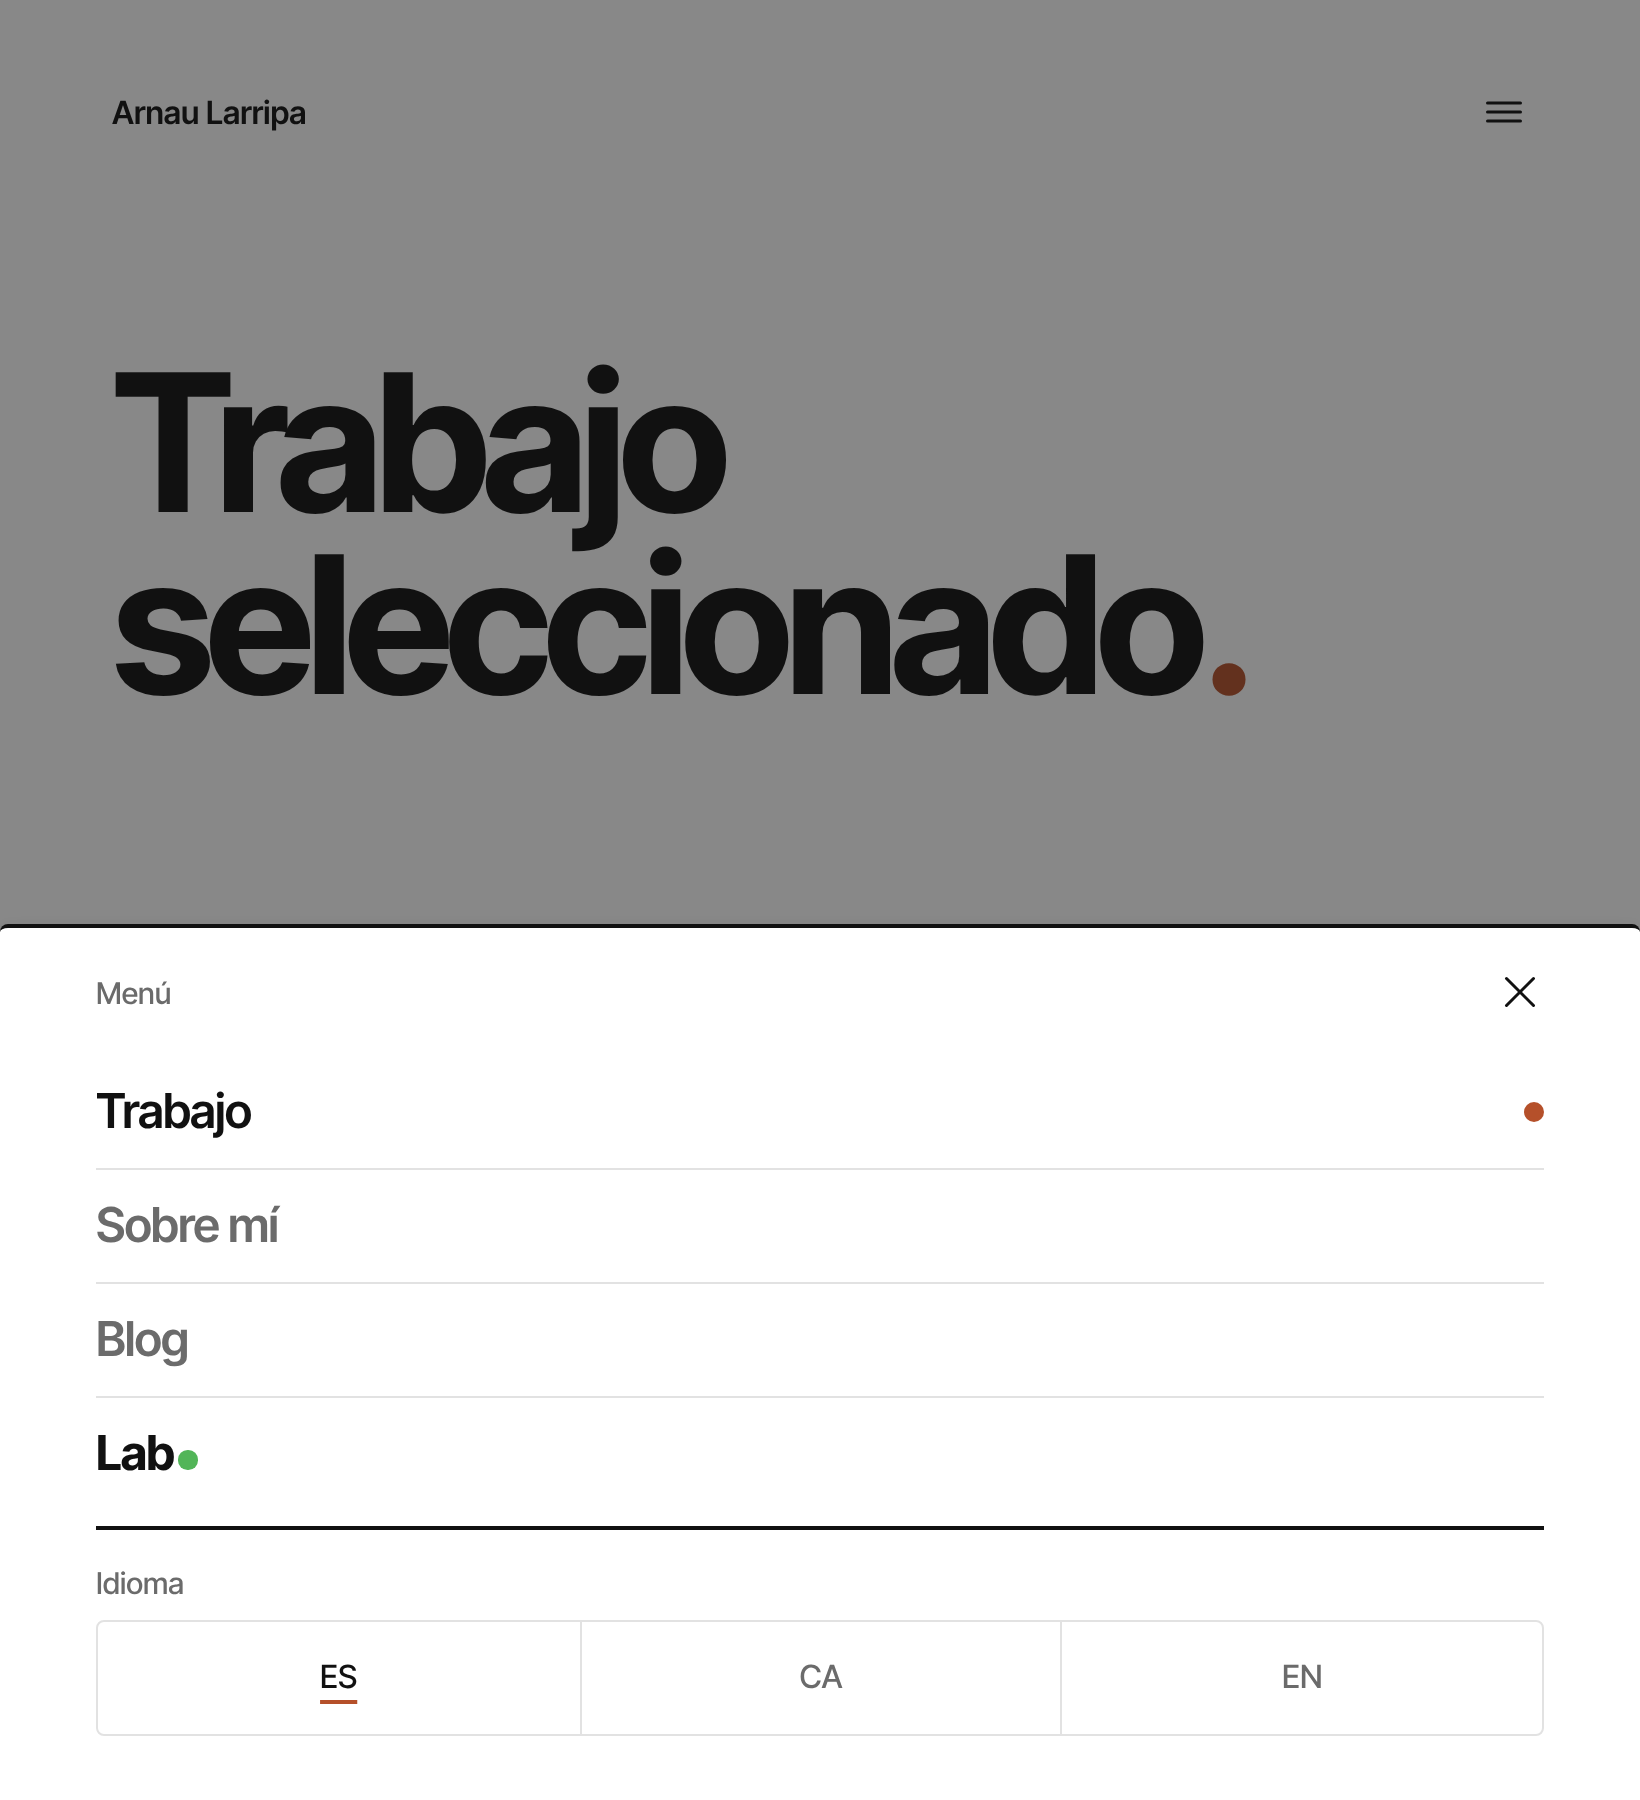
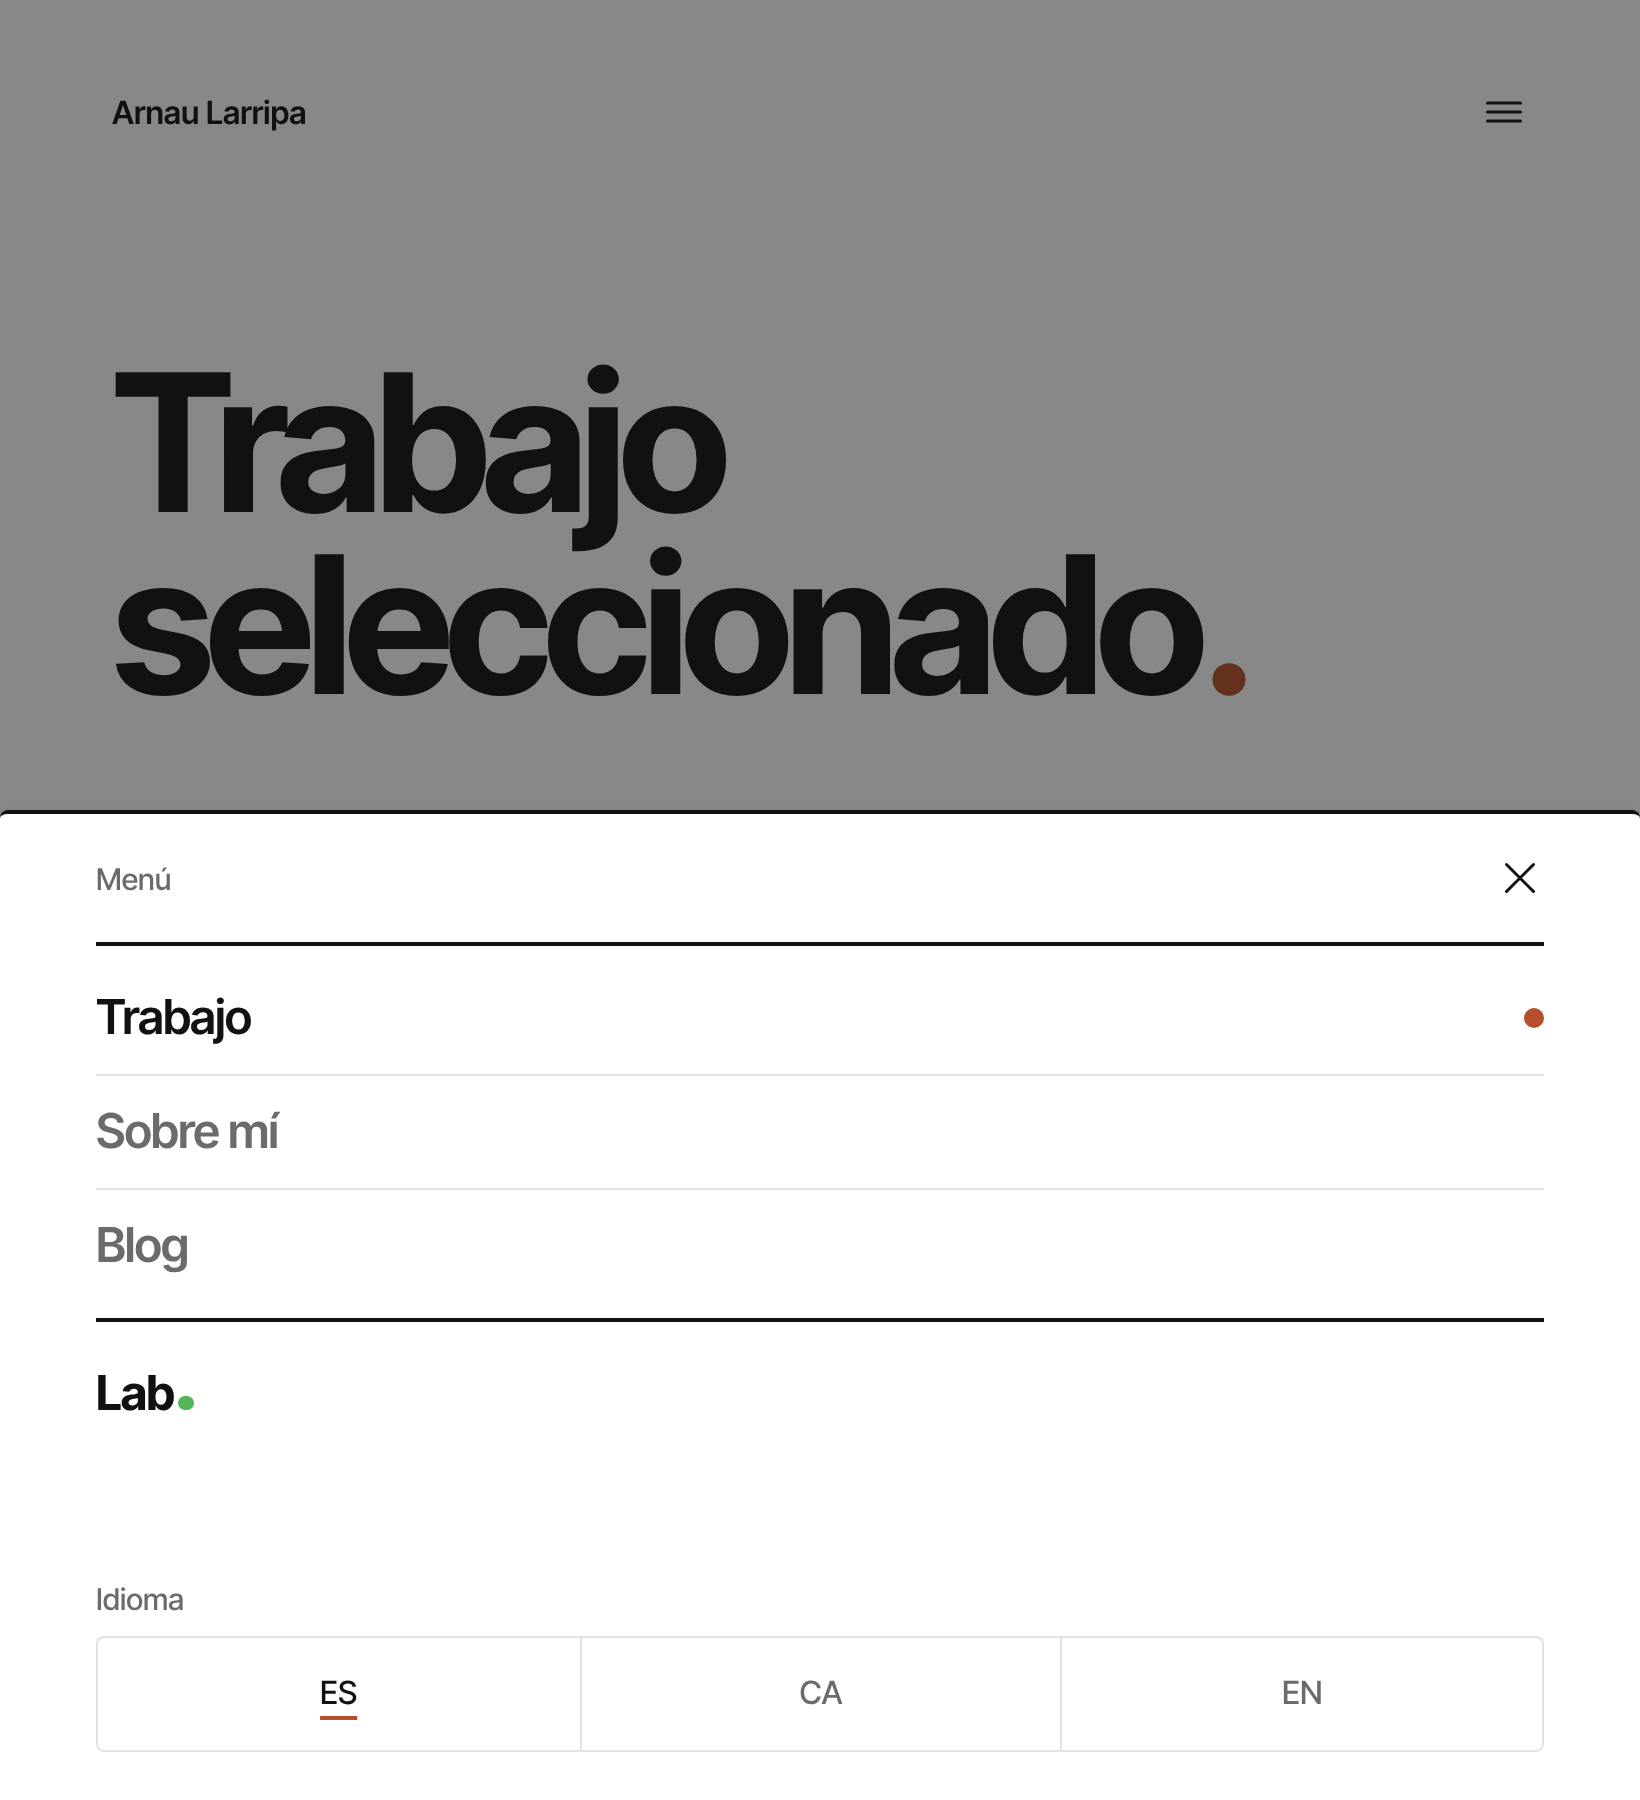
Propuesta de navegación: hoja móvil con navegación entre separadores, Lab aparte e idioma sin línea; punto de Lab más pequeño
Claude-Session: https://claude.ai/code/session_01JS6xCBDNNodswqTgx73xbD

diff --git a/diseno/propuestas/navegacion/nav.css b/diseno/propuestas/navegacion/nav.css
@@ -27,7 +27,7 @@
 .ds-sheet__bar{display:flex;align-items:center;justify-content:space-between;padding-top:var(--space-1)}
 .ds-sheet__bar .ds-close{margin-right:-12px}
 .ds-sheet__bar p{margin:0}
-.ds-sheet__list{list-style:none;margin:0;padding:var(--space-1) 0}
+.ds-sheet__list{list-style:none;margin:var(--space-1) 0 0;padding:var(--space-1) 0;border-top:2px solid var(--line-strong);border-bottom:2px solid var(--line-strong)}
 .ds-sheet__list>li+li{border-top:1px solid var(--line)}
 @media (min-width:640px){.ds-sheet__panel{padding-inline:var(--space-6)}}
 html.ds-lock{overflow:hidden}
@@ -37,15 +37,16 @@ html.ds-lock{overflow:hidden}
 .ds-sheet__link[aria-current="page"]{color:var(--text)}
 .ds-sheet__link[aria-current="page"]::after{content:"";flex:none;width:10px;height:10px;border-radius:50%;background:var(--accent)}
 .ds-sheet__link:focus-visible,.ds-sheet__link.is-focus{outline:none;background:var(--focus);color:var(--focus-ink);box-shadow:var(--underline-focus)}
-.ds-sheet__lab{border-top:2px solid var(--line-strong)}
+.ds-sheet__lab{padding:var(--space-1) 0 0}
 
 /* Lab. — punto verde grueso (decorativo) */
 :root{--lab-green:#52b558}
-.ds-lab__dot{display:inline-block;width:.4em;height:.4em;margin-left:.1em;border-radius:50%;background:var(--lab-green)}
+.ds-lab__dot{display:inline-block;width:.34em;height:.34em;margin-left:.1em;border-radius:50%;background:var(--lab-green)}
 .ds-nav.ds-lab{color:var(--text);font-weight:700}
 .ds-nav.ds-lab:hover,.ds-nav.ds-lab.is-hover{text-decoration-line:underline;text-decoration-color:var(--lab-green)}
 .ds-nav.ds-lab:active,.ds-nav.ds-lab.is-pressed{color:var(--accent-pressed)}
 .ds-nav.ds-lab:focus-visible,.ds-nav.ds-lab.is-focus{color:var(--focus-ink);text-decoration:none}
+.ds-sheet__lab .ds-lab__dot{width:.3em;height:.3em}
 .ds-sheet__lab .ds-sheet__link{color:var(--text);font-weight:700}
 .ds-sheet__lab .ds-sheet__link:hover,.ds-sheet__lab .ds-sheet__link.is-hover{text-decoration:underline;text-decoration-color:var(--lab-green);text-decoration-thickness:3px;text-underline-offset:6px}
 .ds-sheet__lab .ds-sheet__link:active,.ds-sheet__lab .ds-sheet__link.is-pressed{color:var(--accent-pressed)}
@@ -66,7 +67,8 @@ html.ds-lock{overflow:hidden}
 .ds-lang__item:focus-visible,.ds-lang__item.is-focus{outline:none;background:var(--focus);color:var(--focus-ink);text-decoration:none;box-shadow:var(--underline-focus)}
 
 /* Idioma en el menú móvil: tres celdas iguales, separadas por líneas */
-.ds-sheet__lang{border-top:2px solid var(--line-strong);padding:var(--space-2) 0 var(--space-1)}
+.ds-sheet__lang{margin-top:var(--space-8);padding:0}
+.ds-sheet__lab[hidden]+.ds-sheet__lang{margin-top:var(--space-4)}
 .ds-sheet__lang-label{margin:0 0 var(--space-1)}
 .ds-sheet__lang-row{display:grid;grid-template-columns:repeat(3,1fr);margin:0;padding:0;list-style:none;border:1px solid var(--line);border-radius:var(--radius)}
 .ds-sheet__lang-row li+li{border-left:1px solid var(--line)}

diff --git a/diseno/propuestas/navegacion/propuesta.html b/diseno/propuestas/navegacion/propuesta.html
@@ -43,8 +43,8 @@
       <li><a class="ds-sheet__link" href="#" aria-current="page">Trabajo</a></li>
       <li><a class="ds-sheet__link" href="#">Sobre mí</a></li>
       <li><a class="ds-sheet__link" href="#">Blog</a></li>
-      <li class="ds-sheet__lab" id="lab-m" hidden><a class="ds-sheet__link" href="#"><span>Lab<span class="ds-lab__dot" aria-hidden="true"></span></span></a></li>
     </ul>
+    <div class="ds-sheet__lab" id="lab-m" hidden><a class="ds-sheet__link" href="#"><span>Lab<span class="ds-lab__dot" aria-hidden="true"></span></span></a></div>
     <nav class="ds-sheet__lang" aria-label="Idioma" id="idioma-m" hidden>
       <p class="ds-label t-meta ds-sheet__lang-label">Idioma</p>
       <ul class="ds-sheet__lang-row">

diff --git a/diseno/propuestas/navegacion/LEEME.md b/diseno/propuestas/navegacion/LEEME.md
@@ -25,7 +25,7 @@ Abre los `.html` de esta carpeta en el navegador (usan los estilos reales de `sr
 **Móvil y tableta (menos de 1024 px): bottom sheet**
 - Nombre a la izquierda y botón de hamburguesa **solo con icono** (48 × 48 px) a la derecha. El icono no cambia al abrirse: la hoja se cierra con su propia X.
 - Al pulsarlo se abre una **hoja desde abajo** con velo oscuro, que ocupa solo la altura de su contenido. Se construye como el panel de contacto: un `<dialog>` con `showModal()` (foco atrapado, Escape y fondo inerte de forma nativa), borde superior de 2 px y esquinas superiores de 4 px.
-- Dentro: etiqueta «Menú» y botón X de cierre (`.ds-close`, alineado donde estaba el icono de hamburguesa), enlaces a 24 px separados por líneas (punto terracota en la página actual), Lab. al final y, bajo una línea gruesa, el idioma en tres celdas iguales con siglas (ES · CA · EN, mínimo 56 px de alto).
+- Dentro, de arriba abajo: etiqueta «Menú» y botón X de cierre (`.ds-close`, alineado donde estaba el icono de hamburguesa); línea gruesa; **navegación de la página** (Trabajo · Sobre mí · Blog, a 24 px, líneas finas entre ellos y punto terracota en la actual); línea gruesa; **Lab.** aparte; un hueco amplio (64 px, el doble que antes) y, **sin separador**, el **idioma** en tres celdas iguales con siglas (ES · CA · EN, mínimo 56 px de alto). Si Lab está oculto, el idioma sube a 32 px de la lista.
 - Se cierra con la X, tocando el velo o con Escape. Sin gesto de arrastrar (queda fuera de la primera versión).
 - A 640–1023 px la hoja ocupa todo el ancho con márgenes de 48 px.
 
@@ -38,7 +38,7 @@ Abre los `.html` de esta carpeta en el navegador (usan los estilos reales de `sr
 - Lab al final de la lista. Idioma en tres celdas iguales con siglas (ES · CA · EN), mínimo 56 px de alto.
 
 **Lab.**
-- Negrita (700) y en negro también en reposo. Punto verde (`--brand-lab`, `#52b558`) de 0,4 em en la barra, decorativo (`aria-hidden`).
+- Negrita (700) y en negro también en reposo. Punto verde (`--brand-lab`, `#52b558`) de 0,34 em en la barra de escritorio y 0,3 em en la hoja móvil, decorativo (`aria-hidden`).
 - Hover: subrayado verde. Pulsado: terracota oscuro. Foco: amarillo del sistema.
 - **Sin estado «actual» por ahora**: se decidirá cuando se plantee la página del Lab.
 
